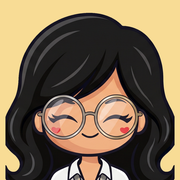
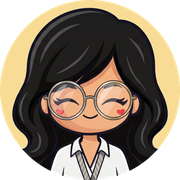
feat(traversals): add tree-kinds picture, task tracker in lab, and answer boxes for mistakes
also: neutral N/L/R chips, redrawn routes picture, stronger ITC 120 tape

diff --git a/src/lib/illus.js b/src/lib/illus.js
@@ -498,3 +498,104 @@ export function dsDoodles() {
   for (const [x, y, t] of [[56, 84, 'array'], [181, 84, 'linked list'], [312, 84, 'map'], [40, 199, 'stack'], [132, 199, 'queue'], [232, 199, 'tree'], [324, 199, 'graph']]) s.text(x, y, t, { size: 16, color: ink });
   return s.svg('Small hand-drawn sketches of the structures in this course: array, linked list, map, stack, queue, tree, and graph', 'head-art');
 }
+
+/* ---------------- Traversals: why we need them ---------------- */
+
+/** Four everyday jobs that must touch every node once: list, count, copy, delete. */
+export function travJobs() {
+  const s = new Sketch(340, 424, 71);
+  const DARK = '#a8650f';
+  const panel = (x0, y0, title, color, kind, result, cap) => {
+    s.round(x0, y0, 162, 196, 12, { fill: C.card, sw: 1.4, stroke: C.soft, rough: 0.5 });
+    s.text(x0 + 81, y0 + 24, title, { font: 'body', size: 15, weight: 800, color });
+    const cx = x0 + 81, P = [[cx, y0 + 54], [cx - 42, y0 + 104], [cx + 42, y0 + 104]];
+    s.line(P[0][0] - 8, P[0][1] + 14, P[1][0] + 6, P[1][1] - 16, { sw: 1.6 });
+    s.line(P[0][0] + 8, P[0][1] + 14, P[2][0] - 6, P[2][1] - 16, { sw: 1.6 });
+    P.forEach(([x, y], i) => {
+      if (kind === 'num') { s.round(x - 22, y - 13, 44, 26, 6, { fill: C.tealWash, sw: 1.5, rough: 0.6 }); s.text(x, y + 5, ['1042', '1017', '1088'][i], { font: 'body', size: 12, weight: 800 }); }
+      else if (kind === 'person') { s.circle(x, y - 6, 15, { fill: C.butter, sw: 1.5 }); s.path(`M${x - 11} ${y + 14} Q${x} ${y - 2} ${x + 11} ${y + 14} Z`, { fill: C.orangeWash, sw: 1.5 }); }
+      else { s.folder(x - 16, y - 14, '', { w: 32, h: 26, fill: i ? C.butter : C.amber }); if (kind === 'del') { s.line(x - 12, y - 10, x + 12, y + 12, { stroke: C.red, sw: 2.4, single: true }); s.line(x + 12, y - 10, x - 12, y + 12, { stroke: C.red, sw: 2.4, single: true }); } }
+    });
+    s.arrow(cx, y0 + 124, cx, y0 + 140, { stroke: color, sw: 1.8, head: 7 });
+    result(cx, y0 + 160);
+    s.text(cx, y0 + 186, cap, { font: 'body', size: 12, weight: 700, color: C.soft });
+  };
+  panel(4, 4, 'Show a list', C.teal, 'num', (x, y) => { s.rect(x - 62, y - 14, 124, 24, { fill: C.paper, sw: 1.3, rough: 0.6 }); s.text(x, y + 3, '1017, 1042, 1088', { font: 'body', size: 12, weight: 800 }); }, 'print every patient number');
+  panel(174, 4, 'Count', C.orange, 'person', (x, y) => { s.text(x, y + 4, '3 students', { font: 'body', size: 15, weight: 800, color: C.orange }); }, 'count every student');
+  panel(4, 206, 'Save a copy', DARK, 'folder', (x, y) => { s.folder(x - 30, y - 14, '', { w: 26, h: 20, fill: C.butter }); s.folder(x - 22, y - 8, '', { w: 26, h: 20, fill: C.amber }); s.text(x + 10, y + 7, 'copied', { font: 'body', size: 13, weight: 800, color: DARK, anchor: 'start' }); }, 'back up everything inside');
+  panel(174, 206, 'Delete', C.red, 'del', (x, y) => { s.rect(x - 10, y - 10, 20, 22, { fill: C.card, sw: 1.6 }); s.line(x - 14, y - 12, x + 14, y - 12, { sw: 1.8 }); s.text(x + 18, y + 7, 'all gone', { font: 'body', size: 13, weight: 800, color: C.red, anchor: 'start' }); }, 'remove everything inside');
+  s.text(170, 418, 'Every job: visit every node, exactly once.', { size: 17, color: C.teal });
+  return s.svg('Four jobs that touch every node of a tree once. Show a list: print every patient number (1017, 1042, 1088). Count: count every student (3 students). Save a copy: back up a folder and everything inside. Delete: remove a folder and everything inside.');
+}
+
+/** Three everyday trees: phone folders, a family tree, and an online shop's categories. */
+export function everydayTrees() {
+  const s = new Sketch(340, 204, 72);
+  const tree = (x0, title, labels, draw) => {
+    const cx = x0 + 55;
+    s.text(cx, 20, title, { font: 'body', size: 13, weight: 800 });
+    const P = [[cx, 48], [cx - 30, 134], [cx + 30, 134]];
+    s.line(cx - 6, 86, P[1][0] + 4, 116, { sw: 1.5 }); s.line(cx + 6, 86, P[2][0] - 4, 116, { sw: 1.5 });
+    P.forEach(([x, y], i) => { draw(x, y, i); s.text(x, y + 30, labels[i], { font: 'body', size: 12, weight: 700 }); });
+  };
+  tree(2, 'Phone folders', ['Files', 'DCIM', 'Docs'], (x, y, i) => s.folder(x - 14, y - 12, '', { w: 28, h: 22, fill: i ? C.butter : C.amber }));
+  tree(116, 'Family tree', ['Lola', 'Mama', 'Tito'], (x, y, i) => { s.circle(x, y - 3, 22, { fill: i ? C.butter : C.orangeWash, sw: 1.5 }); s.circle(x - 3, y - 5, 2, { fill: C.ink, sw: 1 }); s.circle(x + 3, y - 5, 2, { fill: C.ink, sw: 1 }); s.path(`M${x - 4} ${y + 1} Q${x} ${y + 5} ${x + 4} ${y + 1}`, { sw: 1.2 }); });
+  tree(228, 'Online shop', ['All', 'Gadgets', 'Shoes'], (x, y, i) => { s.path(`M${x - 16} ${y - 10} H${x + 8} L${x + 16} ${y} L${x + 8} ${y + 10} H${x - 16} Z`, { fill: i ? C.tealWash : C.teal, sw: 1.5 }); s.circle(x + 7, y, 4, { fill: C.card, sw: 1 }); });
+  s.text(170, 198, 'a root at the top, branches, and leaves', { size: 15, color: C.soft });
+  return s.svg('Three everyday trees. Phone folders: Files holds DCIM and Docs. A family tree: Lola, with her children Mama and Tito. An online shop: All, split into Gadgets and Shoes.');
+}
+
+/** Clean: an array and a linked list have one way forward; a binary tree has two ways down and needs a way back up. */
+export function routesPic() {
+  const T = C.teal, O = C.orange, ink = C.ink, soft = C.soft;
+  const lab = (x, y, t, c = ink, a = 'start', sz = 15, w = 800, f = 'Nunito, sans-serif') => `<text x="${x}" y="${y}" text-anchor="${a}" font-family='${f}' font-size="${sz}" font-weight="${w}" fill="${c}">${esc(t)}</text>`;
+  const head = (id, c) => `<marker id="${id}" viewBox="0 0 10 10" refX="8" refY="5" markerUnits="userSpaceOnUse" markerWidth="10" markerHeight="10" orient="auto"><path d="M0 1L9 5L0 9z" fill="${c}"/></marker>`;
+  const card = (y, h, title, color, side) => `<rect x="4" y="${y}" width="332" height="${h}" rx="12" fill="#fff" stroke="#d9dedb" stroke-width="1.5"/>` + lab(18, y + 24, title, color, 'start', 15) + lab(322, y + 24, side, soft, 'end', 12, 700);
+  let s = `<svg class="objbox" viewBox="0 0 340 452" role="img" aria-label="An array and a linked list have only one way forward. A binary tree node has two ways down: go down one side, come back up, then go down the other side."><defs>${head('rpT', T)}${head('rpO', O)}</defs>`;
+  s += card(4, 104, 'Array', T, 'one way forward');
+  [5, 8, 2, 9].forEach((v, i) => { s += `<rect x="${40 + i * 50}" y="38" width="50" height="36" fill="${i ? '#fff' : C.tealWash}" stroke="${ink}" stroke-width="1.8"/>` + lab(65 + i * 50, 62, String(v), ink, 'middle', 15); });
+  s += `<path d="M58 90 H226" stroke="${T}" stroke-width="2.2" fill="none" marker-end="url(#rpT)"/>` + lab(246, 95, 'i++', T, 'start', 14, 600, '"IBM Plex Mono", monospace');
+  s += card(116, 104, 'Linked list', T, 'one way forward');
+  [10, 20, 30].forEach((v, i) => { const x = 34 + i * 86; s += `<rect x="${x}" y="150" width="52" height="34" rx="7" fill="${i ? '#fff' : C.tealWash}" stroke="${ink}" stroke-width="1.8"/>` + lab(x + 26, 173, String(v), ink, 'middle', 15); s += `<path d="M${x + 54} 167 H${x + (i < 2 ? 83 : 79)}" stroke="${T}" stroke-width="2.2" marker-end="url(#rpT)"/>`; });
+  s += lab(292, 172, 'null', soft, 'start', 13, 700);
+  s += lab(170, 208, 'current = current.next', T, 'middle', 12, 600, '"IBM Plex Mono", monospace');
+  s += card(228, 216, 'Binary tree', O, 'TWO ways down');
+  const A = [170, 282], B = [94, 368], Cc = [246, 368];
+  s += `<line x1="${A[0]}" y1="${A[1]}" x2="${B[0]}" y2="${B[1]}" stroke="${ink}" stroke-width="1.8"/><line x1="${A[0]}" y1="${A[1]}" x2="${Cc[0]}" y2="${Cc[1]}" stroke="${ink}" stroke-width="1.8"/>`;
+  s += `<path d="M148 284 Q 96 300 80 344" stroke="${O}" stroke-width="2.2" fill="none" marker-end="url(#rpO)"/>`;
+  s += `<path d="M118 358 Q 158 336 160 302" stroke="${O}" stroke-width="2.2" fill="none" stroke-dasharray="5 4" marker-end="url(#rpO)"/>`;
+  s += `<path d="M192 284 Q 244 300 260 344" stroke="${O}" stroke-width="2.2" fill="none" marker-end="url(#rpO)"/>`;
+  for (const [p, t, f] of [[A, 'A', C.butter], [B, 'B', '#fff'], [Cc, 'C', '#fff']]) s += `<circle cx="${p[0]}" cy="${p[1]}" r="19" fill="${f}" stroke="${ink}" stroke-width="1.8"/>` + lab(p[0], p[1] + 5, t, ink, 'middle', 15);
+  const badge = (x, y, n, t, a) => `<circle cx="${x}" cy="${y}" r="9" fill="${O}"/>` + lab(x, y + 4, n, '#fff', 'middle', 11, 800) + lab(a === 'end' ? x - 13 : x + 13, y + 4, t, O, a, 12, 800);
+  s += badge(80, 300, '1', 'down', 'end') + badge(178, 346, '2', 'back up', 'start') + badge(260, 300, '3', 'down', 'start');
+  s += lab(170, 412, 'Finish one side, come back up,', soft, 'middle', 13, 700) + lab(170, 429, 'then do the other side.', soft, 'middle', 13, 700);
+  return s + '</svg>';
+}
+
+/** Clean: which kinds of trees each traversal works on. */
+export function treeKinds() {
+  const ink = C.ink, soft = C.soft, OK = '#0e6b63', NO = C.red;
+  const lab = (x, y, t, c = ink, a = 'start', sz = 13, w = 800) => `<text x="${x}" y="${y}" text-anchor="${a}" font-family="Nunito, sans-serif" font-size="${sz}" font-weight="${w}" fill="${c}">${esc(t)}</text>`;
+  const node = (x, y, t, f = '#fff') => `<circle cx="${x}" cy="${y}" r="15" fill="${f}" stroke="${ink}" stroke-width="1.6"/>` + lab(x, y + 5, t, ink, 'middle', 13);
+  const edge = (a, b) => `<line x1="${a[0]}" y1="${a[1]}" x2="${b[0]}" y2="${b[1]}" stroke="${ink}" stroke-width="1.6"/>`;
+  const verdict = (x, y, rows) => rows.map(([name, ok, color], i) => `<rect x="${x}" y="${y + i * 27 - 16}" width="154" height="23" rx="5" fill="${ok ? '#fff' : '#f6e1de'}" stroke="${ok ? '#d9dedb' : NO}" stroke-width="1.2"/>` + lab(x + 8, y + i * 27, name, color, 'start', 13) + lab(x + 146, y + i * 27, ok ? '✓ works' : '✗ no', ok ? OK : NO, 'end', 12)).join('');
+  const P = [['Pre-order', '#b4461a'], ['In-order', '#0a5650'], ['Post-order', '#7a5200']];
+  const card = (y, h, title, sub) => `<rect x="4" y="${y}" width="332" height="${h}" rx="12" fill="#fff" stroke="#d9dedb" stroke-width="1.5"/>` + lab(16, y + 23, title, ink, 'start', 15) + lab(16, y + 41, sub, soft, 'start', 12, 700);
+  let s = `<svg class="objbox" viewBox="0 0 340 512" role="img" aria-label="Any tree: pre-order and post-order work; in-order does not, because a node with three children has no single in-between spot. Binary tree: all three work. BST: all three work, and in-order comes out sorted.">`;
+  s += card(4, 168, '1. Any tree', 'a node may have 3 or more children');
+  const r1 = [82, 72], k1 = [[36, 130], [82, 130], [128, 130]];
+  k1.forEach((k) => (s += edge(r1, k))); s += node(...r1, 'P', C.butter); ['X', 'Y', 'Z'].forEach((t, i) => (s += node(...k1[i], t)));
+  s += lab(82, 160, 'write P between which two?', NO, 'middle', 11, 700);
+  s += verdict(172, 86, [[P[0][0], true, P[0][1]], [P[1][0], false, P[1][1]], [P[2][0], true, P[2][1]]]);
+  s += card(180, 156, '2. Binary tree', 'at most 2 children: a left and a right');
+  const r2 = [82, 248], k2 = [[46, 304], [118, 304]];
+  k2.forEach((k) => (s += edge(r2, k))); s += node(...r2, 'A', C.butter) + node(...k2[0], 'B') + node(...k2[1], 'C');
+  s += lab(46, 328, 'left', soft, 'middle', 11, 700) + lab(118, 328, 'right', soft, 'middle', 11, 700);
+  s += verdict(172, 262, P.map(([n, c]) => [n, true, c]));
+  s += card(344, 164, '3. BST', 'a binary tree, so all three work');
+  const r3 = [82, 412], k3 = [[46, 468], [118, 468]];
+  k3.forEach((k) => (s += edge(r3, k))); s += node(...r3, '20', C.butter) + node(...k3[0], '10') + node(...k3[1], '30');
+  s += verdict(172, 422, P.map(([n, c]) => [n, true, c]));
+  s += lab(172, 498, 'bonus: in-order = 10, 20, 30', OK, 'start', 12, 800);
+  return s + '</svg>';
+}

diff --git a/src/styles/global.css b/src/styles/global.css
@@ -93,7 +93,7 @@ code, .mono { font-family: var(--font-mono); font-size: 0.86em; }
   transform: rotate(-2deg);
   box-shadow: 0 1px 2px var(--shadow);
 }
-.tape.teal { background: repeating-linear-gradient(45deg, transparent 0 6px, rgba(255,255,255,0.3) 6px 12px), var(--teal-wash); }
+.tape.teal { background: repeating-linear-gradient(45deg, transparent 0 6px, rgba(255,255,255,0.25) 6px 12px), #7fc7bc; box-shadow: 0 1px 3px rgba(27,42,46,0.3); }
 .tape.amber { background: repeating-linear-gradient(45deg, transparent 0 6px, rgba(255,255,255,0.3) 6px 12px), var(--butter); }
 .muted { color: var(--ink-soft); }
 .small { font-size: var(--step--1); }
@@ -694,7 +694,8 @@ pre.bugfix .bug-fix-ic { display: inline-grid; place-items: center; width: 1.2em
 .taporder .to-msg.is-ok { background: var(--teal-wash); }
 .taporder .to-msg.is-bad { background: #fdf0ee; }
 /* Walk-around-the-tree figures */
-.tour-row { display: grid; gap: 0.8rem; grid-template-columns: repeat(auto-fit, minmax(15rem, 1fr)); }
+.tour-row { display: flex; flex-wrap: wrap; justify-content: center; gap: 0.8rem; }
+.tour-row > figure { flex: 0 1 19rem; min-width: 0; }
 .tour-row figure { margin: 0; background: var(--card); border: 1.5px solid var(--line); border-radius: 10px; padding: 0.5rem; }
 .tour-row figcaption { font-size: var(--step--1); text-align: center; }
 .tourfig { display: block; margin: 0 auto; width: 100%; height: auto; }
@@ -705,8 +706,29 @@ pre.bugfix .bug-fix-ic { display: inline-grid; place-items: center; width: 1.2em
 /* Home: Ma'am Audrey waving, as a taped card */
 .home-hero { display: grid; gap: 1.5rem; align-items: center; }
 @media (min-width: 46rem) { .home-hero { grid-template-columns: 1fr 15rem; gap: 2.5rem; } }
-.hello-card { position: relative; margin: 1rem auto 0; width: min(15rem, 72vw); padding: 2.9rem 0.9rem 0; background: #fbf1d6; border: 2px solid var(--ink); border-radius: 12px; box-shadow: 4px 4px 0 var(--ink); transform: rotate(2deg); }
-.hello-card::before { content: ""; position: absolute; top: -0.75rem; left: 50%; width: 5.5rem; height: 1.45rem; transform: translateX(-50%) rotate(-4deg); background: repeating-linear-gradient(45deg, transparent 0 6px, rgba(255,255,255,0.35) 6px 12px), var(--teal-wash); opacity: 0.92; }
+.hello-card { position: relative; margin: 1rem auto 0; width: min(15rem, 72vw); padding: 1.6rem 0.9rem 0; background: #fbf1d6; border: 2px solid var(--ink); border-radius: 12px; box-shadow: 4px 4px 0 var(--ink); transform: rotate(2deg); }
+.hello-card::before { content: ""; position: absolute; top: -0.75rem; left: 50%; width: 5.5rem; height: 1.45rem; transform: translateX(-50%) rotate(-4deg); background: repeating-linear-gradient(45deg, transparent 0 6px, rgba(255,255,255,0.3) 6px 12px), var(--orange); opacity: 0.88; box-shadow: 0 1px 2px rgba(27,42,46,0.25); }
 .hello-card img { display: block; width: 100%; height: auto; }
-.hello-bubble { position: absolute; top: 0.55rem; right: -0.9rem; z-index: 1; margin: 0; padding: 0.15rem 0.7rem; background: #fff; border: 2px solid var(--ink); border-radius: 14px; font-family: var(--font-hand); font-weight: 700; font-size: 1.05rem; transform: rotate(-4deg); white-space: nowrap; }
-.hello-bubble::after { content: ""; position: absolute; left: 1.4rem; bottom: -0.55rem; width: 0.8rem; height: 0.8rem; background: #fff; border-right: 2px solid var(--ink); border-bottom: 2px solid var(--ink); transform: rotate(45deg); }
+
+/* Traversals: N / L / R task chips (neutral ink, so they are not confused with the pre/in/post colors) */
+.tk { display: inline-flex; align-items: baseline; gap: 0.35em; font-family: var(--font-mono); font-weight: 700; color: var(--ink); background: #fff; border: 1.5px solid var(--ink); border-radius: 5px; padding: 0 0.4em; line-height: 1.5; }
+.tk small { font-family: var(--font-body, inherit); font-size: 0.8em; font-weight: 700; color: var(--ink-soft); }
+.tk.is-done { background: #eef0ee; border-color: #9aa8aa; }
+.tk.is-now { background: var(--orange-wash); border-color: var(--orange); }
+.tk.is-empty { border-style: dashed; border-color: #9aa8aa; }
+.tk-row { display: flex; flex-wrap: wrap; gap: 0.35rem; align-items: center; }
+/* Mistakes: the picture with the wrong and right answers beside it */
+.mk-row { display: grid; gap: 0.8rem; align-items: center; }
+@media (min-width: 40rem) { .mk-row { grid-template-columns: minmax(0, 1fr) minmax(0, 15rem); } }
+.mk-row figure { margin: 0; }
+.mk-ans { display: grid; gap: 0.5rem; }
+.mk-ans p { margin: 0; padding: 0.45rem 0.7rem; border-radius: 8px; border: 1.5px solid var(--line); background: #fff; }
+.mk-ans .mk-wrong { border-color: var(--red-pen); background: #fbeceb; }
+.mk-ans .mk-wrong b:first-child { color: var(--red-pen); }
+.mk-ans .mk-right { border-color: var(--teal); background: var(--teal-wash); }
+.mk-ans .mono { display: block; font-weight: 600; }
+.mk-ans .mk-wrong .mono { color: var(--red-pen); text-decoration: line-through; text-decoration-thickness: 1.5px; }
+
+.mk-ans .mk-right.is-pre { border-color: var(--orange); background: var(--orange-wash); }
+.mk-ans .mk-right.is-pre b:first-child { color: #b4461a; }
+.mk-ans .mk-right.is-in b:first-child { color: var(--teal-ink); }

diff --git a/src/lib/bst.js b/src/lib/bst.js
@@ -151,39 +151,44 @@ const NAME = { pre: 'Pre-order (N L R)', in: 'In-order (L N R)', post: 'Post-ord
 
 export function traversalSteps(root, order) {
   const steps = [];
-  const written = [], waiting = [], finished = new Set();
-  const panel = () => `<p><b>Waiting</b> (we must come back): ${waiting.length ? waiting.slice().reverse().map((n) => n.v).join(', ') : 'nobody'}</p><p><b>Written:</b> <span class="written">${written.map((x) => `<span>${x}</span>`).join('') || '<i>(nothing yet)</i>'}</span></p>`;
+  const written = [], waiting = [], finished = new Set(), wid = [];
+  const prog = {}; // node id -> { N|L|R: 'done' | 'now' | 'empty' }
+  const word = { N: 'write it', L: 'left side', R: 'right side' };
+  const chips = (n) => ORD[order].map((t) => { const st = (prog[n.id] || {})[t] || ''; return `<span class="tk${st ? ' is-' + st : ''}">${t}<small>${word[t]}${st === 'done' ? ' ✓' : st === 'now' ? ': doing it' : st === 'empty' ? ': empty, skip' : ''}</small></span>`; }).join(' ');
+  const panel = (f) => (f ? `<p class="tk-row"><b>Tasks at ${f.v}:</b> ${chips(f)}</p>` : '<p class="tk-row"><b>Tasks:</b> all done</p>') + `<p><b>Waiting</b> (we must come back): ${waiting.length ? waiting.slice().reverse().map((n) => n.v).join(', ') : 'nobody'}</p><p><b>Written:</b> <span class="written">${written.map((x) => `<span>${x}</span>`).join('') || '<i>(nothing yet)</i>'}</span></p>`;
   const marks = (cur) => { const m = {}; finished.forEach((id) => (m[id] = 'done')); waiting.forEach((n) => (m[n.id] = 'wait')); if (cur) m[cur.id] = 'cur'; return m; };
-  const push = (cap, cur, tag) => steps.push(S(root, cap, { tag, marks: marks(cur), extra: panel() }));
+  const tags = () => Object.fromEntries(wid.map((id, i) => [id, '#' + (i + 1)]));
+  const push = (cap, cur, tag, f) => steps.push(S(root, cap, { tag, marks: marks(cur), tags: tags(), extra: panel(f) }));
+  const set = (n, t, v) => ((prog[n.id] = prog[n.id] || {})[t] = v);
 
   function walk(n, parent) {
     for (const t of ORD[order]) {
       if (t === 'N') {
-        written.push(n.v);
+        written.push(n.v); wid.push(n.id); set(n, 'N', 'done');
         const why = order === 'pre' ? `We are at ${n.v}. Write ${n.v} first (N comes before L and R).`
           : order === 'in' ? (n.l ? `Back at ${n.v}. Its left side is done, so now write ${n.v}.` : `${n.v}'s left side is empty. Write ${n.v}.`)
           : (n.l || n.r ? `Both sides of ${n.v} are done. Now write ${n.v}.` : `${n.v} has no children, so both sides are done. Write ${n.v}.`);
-        push(why, n, `Write ${n.v}`);
+        push(why, n, `Write ${n.v}`, n);
       } else {
         const ch = t === 'L' ? n.l : n.r;
         const w = t === 'L' ? 'left' : 'right';
-        if (!ch) continue;
+        if (!ch) { set(n, t, 'empty'); continue; }
         let pre = '';
         if (t === 'R' && order === 'post' && n.l) pre = `${n.v}'s left side is done, but not its right side, so do not write ${n.v} yet. `;
         if (t === 'R' && !n.l && order !== 'pre') pre = `${n.v}'s left side is empty. `;
         if (t === 'L' && order !== 'pre') pre = `We are at ${n.v}. Do not write it yet: its left side comes first. `;
-        waiting.push(n);
-        push(`${pre}Go ${w} to <b>${ch.v}</b>.`, ch, `Go ${w}`);
+        waiting.push(n); set(n, t, 'now');
+        push(`${pre}Go ${w} to <b>${ch.v}</b>. ${n.v} waits. Next, ${ch.v} does its own three tasks.`, ch, `${n.v} goes ${w}`, n);
         walk(ch, n);
-        waiting.pop();
+        waiting.pop(); set(n, t, 'done');
       }
     }
     finished.add(n.id);
-    if (parent) push(`${n.v}'s whole subtree is finished. Go back up to ${parent.v}.`, parent, 'Back up');
+    if (parent) push(`${n.v}'s whole subtree is finished. Go back up to ${parent.v} and do its next task.`, parent, `Back up to ${parent.v}`, parent);
   }
-  push(`${NAME[order]}. Start at the root, <b>${root.v}</b>.`, root, 'Start');
+  push(`${NAME[order]}. Start at the root, <b>${root.v}</b>.`, root, 'Start', root);
   walk(root, null);
-  push(`Done! Every node is finished. <b>${NAME[order].split(' (')[0]}: ${written.join(', ')}</b>`, null, 'Done');
+  push(`Done! Every node is finished. <b>${NAME[order].split(' (')[0]}: ${written.join(', ')}</b>`, null, 'Done', null);
   return { steps, out: written };
 }
 
